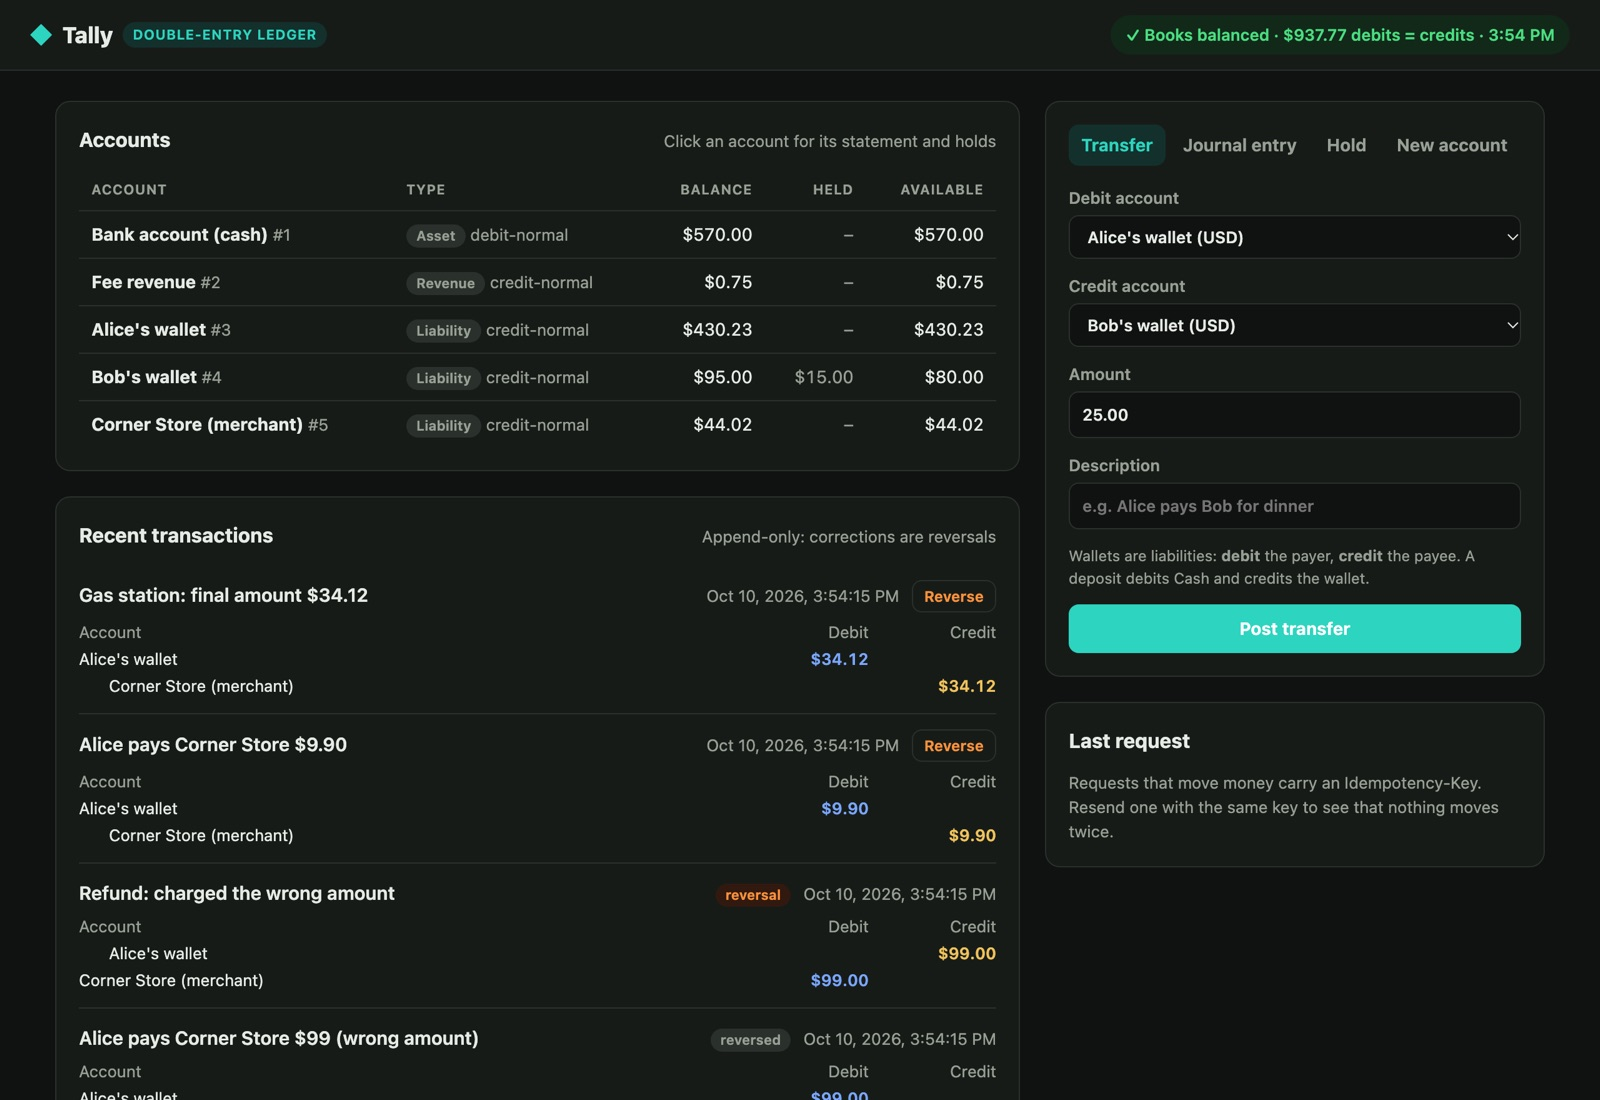
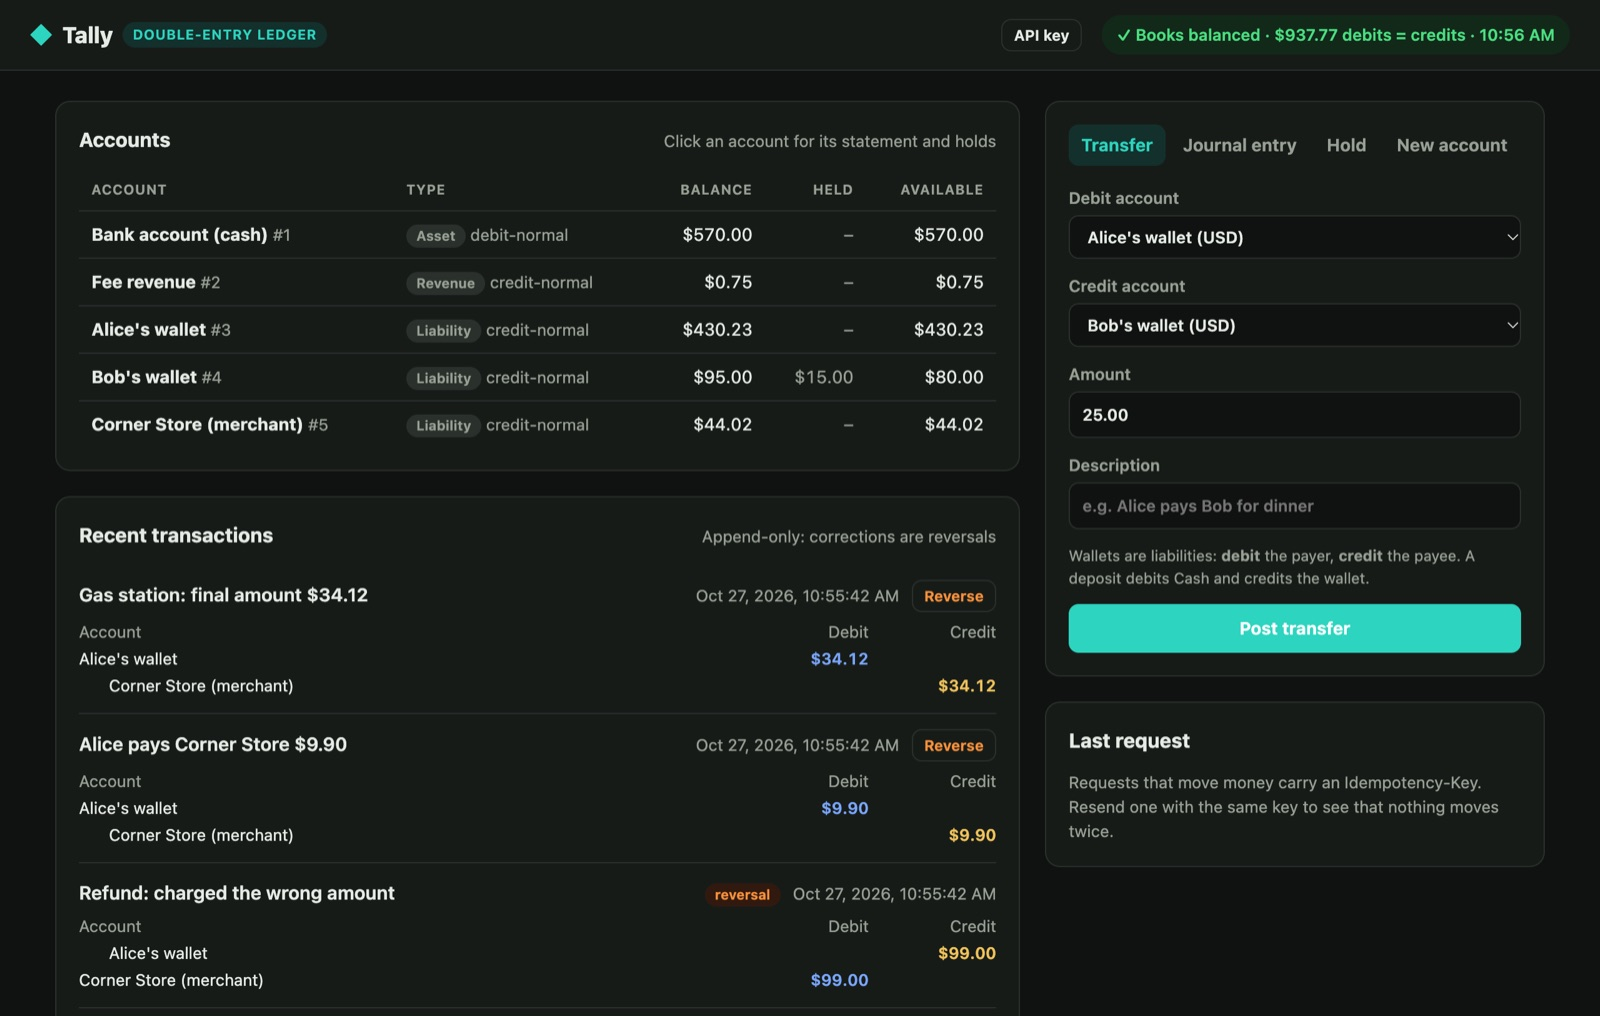
docs: new console screenshot
The console now asks for an API key (the "API key" button in the header);
the caption says where to get one.

diff --git a/README.md b/README.md
@@ -17,7 +17,7 @@ hand-typed `UPDATE` can't corrupt the books.
 
 ![Tally console](docs/console.jpg)
 
-*The built-in console (`/`): reconciliation status (re-checked every minute and after each write), a journal-entry editor that totals debits and credits as you type, statements with running balances, holds, and a button that replays the last request with the same idempotency key.*
+*The built-in console (`/`): reconciliation status (re-checked every minute and after each write), a journal-entry editor that totals debits and credits as you type, statements with running balances, holds, and a button that replays the last request with the same idempotency key. Like any client it calls the API with a key (`tally demo` prints one).*
 
 ## Double-entry in 30 seconds
 
